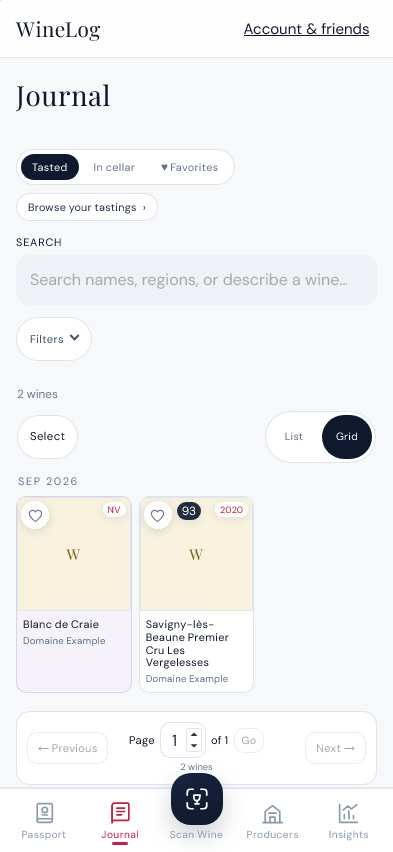
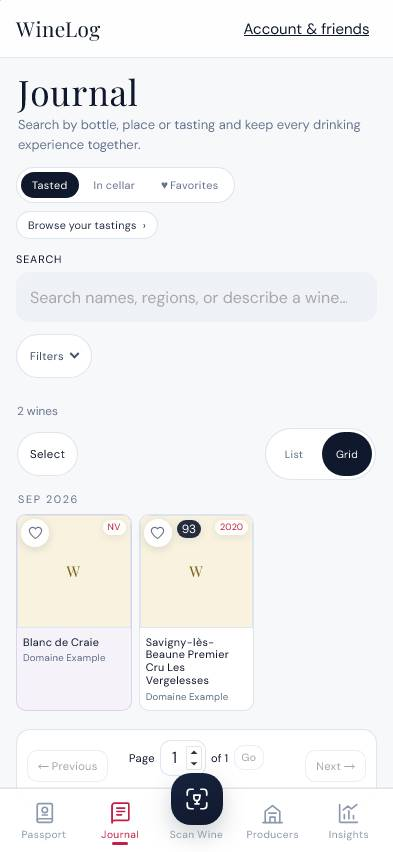
Match Journal header to Passport and retain its description

diff --git a/src/passport.css b/src/passport.css
@@ -1,3 +1,3 @@
-.passport-page{--passport-navy:var(--ink);--passport-gold:#b99659;--passport-cream:var(--warn-wash);max-width:1060px}.passport-intro{padding:4px 0 18px}.passport-intro h1{margin:0;font-size:clamp(2.1rem,4.4vw,3rem);line-height:1;color:var(--passport-navy)}.passport-intro p{margin:8px 0 0;color:var(--ink-6);font-size:.96rem}.passport-summary-card{position:relative;display:grid;grid-template-columns:minmax(0,1fr) 382px;min-height:205px;overflow:hidden;border:1px solid var(--line);border-radius:var(--r-lg);background:linear-gradient(135deg,var(--paper),var(--paper) 72%,var(--warn-wash));box-shadow:0 12px 36px #10182d0a}.passport-summary-copy{position:relative;z-index:2;padding:22px 24px}.passport-summary-copy>.section-label{margin:0 0 18px}.passport-stat-grid{display:grid;grid-template-columns:repeat(3,minmax(0,1fr))}.passport-stat-grid article{display:grid;align-content:start;gap:1px;min-width:0;padding:0 18px}.passport-stat-grid article:first-child{padding-left:0}.passport-stat-grid article+article{border-left:1px solid var(--sunken)}.passport-stat-icon{display:grid;place-items:center;width:36px;height:36px;margin-bottom:7px;border-radius:50%;background:var(--sunken);color:var(--passport-navy);font-size:1rem}.passport-stat-grid strong{font-family:'Playfair Display',serif;font-size:2.15rem;line-height:1}.passport-stat-grid article>span:not(.passport-stat-icon){font-size:.78rem;font-weight:700;white-space:nowrap}.passport-stat-grid small{margin-top:1px;color:var(--ink-7);font-size:.69rem;white-space:nowrap}.passport-map-wrap{position:relative;display:grid;place-items:center;padding:18px 20px;background:linear-gradient(130deg,#fff0,var(--warn-wash))}.passport-map{display:grid;gap:9px;justify-items:center;width:100%;margin:0}.passport-world-map{display:block;width:100%;height:auto}.passport-map-quiet{fill:var(--ink-8)}.passport-map-visited{fill:var(--passport-gold)}.passport-map-pin-glow{fill:var(--passport-navy);opacity:.08}.passport-map-pin-ring{fill:var(--paper);stroke:var(--passport-navy);stroke-width:1;stroke-opacity:.85}.passport-map-pin-core{fill:var(--passport-navy)}.passport-map-caption{color:var(--ink-7);font-size:.64rem;line-height:1.35;text-align:center}.passport-progress-card{display:grid;grid-template-columns:auto minmax(0,1fr) auto;align-items:center;gap:16px;margin-top:12px;padding:15px 18px;border:1px solid var(--line);border-radius:var(--r-lg);background:var(--paper);box-shadow:0 8px 24px #10182d08}.passport-progress-ring{position:relative;display:grid;place-items:center;width:68px;height:68px;border-radius:50%}.passport-progress-ring:after{content:"";position:absolute;inset:7px;border-radius:50%;background:var(--paper)}.passport-progress-ring span{position:relative;z-index:1;font-family:'Playfair Display',serif;font-size:1.17rem}.passport-progress-copy{min-width:0}.passport-progress-copy .section-label{margin:0 0 2px}.passport-progress-copy h2{margin:0;font-size:1.24rem}.passport-progress-copy p{margin:2px 0 7px;color:var(--ink-6);font-size:.78rem}.passport-progress-line{height:6px;overflow:hidden;border-radius:var(--r-pill);background:var(--sunken)}.passport-progress-line span{display:block;height:100%;border-radius:inherit;background:var(--passport-navy)}.passport-soft-link{display:inline-flex;align-items:center;justify-content:center;min-height:38px;padding:0 13px;border-radius:var(--r-sm);background:var(--sunken);color:var(--ink-6);text-decoration:none;font-size:.74rem;font-weight:800;white-space:nowrap}.passport-pair-grid{display:grid;grid-template-columns:repeat(2,minmax(0,1fr));gap:12px;margin-top:12px}.passport-mini-card{min-width:0;padding:16px 17px 13px;border:1px solid var(--line);border-radius:var(--r-lg);background:var(--paper);box-shadow:0 8px 24px #10182d08}.passport-card-heading{display:flex;align-items:flex-start;justify-content:space-between;gap:10px;margin-bottom:7px}.passport-card-heading>div{display:flex;align-items:baseline;justify-content:space-between;gap:10px;min-width:0;flex:1}.passport-card-heading h2{margin:0;font-size:1.17rem}.passport-card-heading span,.passport-card-heading a{color:var(--ink-6);font-size:.67rem;text-decoration:none;white-space:nowrap}.passport-compact-list{display:grid}.passport-compact-list>a{display:grid;grid-template-columns:25px minmax(0,1fr) auto;align-items:center;gap:8px;min-width:0;padding:8px 0;border-top:1px solid var(--sunken);text-decoration:none}.passport-compact-list>a:first-child{border-top:0}.passport-compact-list>a>div{min-width:0}.passport-compact-list strong,.passport-compact-list small{display:block;overflow:hidden;text-overflow:ellipsis;white-space:nowrap}.passport-compact-list strong{font-size:.82rem}.passport-compact-list small{color:var(--ink-7);font-size:.65rem}.passport-compact-list b{font-family:'Playfair Display',serif;font-size:.9rem;font-variant-numeric:tabular-nums}.passport-region-flag{font-size:1rem}.passport-grape-dot{width:11px;height:11px;border-radius:50%;margin-left:4px}.passport-grape-list>a{min-height:39px}.passport-card-link{display:flex;align-items:center;justify-content:space-between;margin-top:5px;padding-top:8px;border-top:1px solid var(--sunken);color:var(--ink-6);text-decoration:none;font-size:.69rem}.passport-card-link span{font-size:1rem;line-height:1}.passport-empty-mini{margin:14px 0;color:var(--ink-7);font-size:.72rem}.passport-stamp-count{margin:9px 0 0;color:var(--ink-6);font-size:.72rem}.passport-stamp-count strong{font-family:'Playfair Display',serif;font-size:1.7rem;line-height:1;color:var(--ink);margin-right:6px}.passport-secondary-grid{align-items:stretch}.passport-recent-list{display:grid}.passport-recent-list>a{display:grid;grid-template-columns:45px minmax(0,1fr) auto;align-items:center;gap:9px;min-width:0;padding:9px 0;border-top:1px solid var(--sunken);text-decoration:none}.passport-recent-list>a:first-child{border-top:0}.passport-recent-list>a.shared{margin:2px -7px;padding-left:7px;padding-right:7px;border-color:var(--shared-line);border-radius:var(--r-sm);background:var(--shared-wash)}.passport-recent-image{display:grid;place-items:center;width:45px;height:48px;overflow:hidden;border-radius:var(--r-sm);background:var(--sunken)}.passport-recent-image img,.passport-recent-image>.wine-image-loading,.passport-recent-image>.wine-image-fallback{width:100%;height:100%;object-fit:cover;border-radius:0}.passport-recent-fallback{display:grid;place-items:center;width:100%;height:100%;background:linear-gradient(145deg,var(--ink-2),var(--ink));color:var(--warn-line);font-family:'Playfair Display',serif}.passport-recent-copy{min-width:0}.passport-recent-copy strong,.passport-recent-copy small{display:block;overflow:hidden;text-overflow:ellipsis;white-space:nowrap}.passport-recent-copy strong{font-family:'Playfair Display',serif;font-size:.81rem;line-height:1.2}.passport-recent-copy small{margin-top:3px;color:var(--ink-7);font-size:.62rem}.passport-recent-date{align-self:end;padding-bottom:2px;color:var(--ink-6);font-size:.61rem;white-space:nowrap}.passport-stamp-list{display:grid;gap:8px}.passport-stamp-list article{display:grid;grid-template-columns:47px minmax(0,1fr);align-items:center;gap:10px;min-width:0}.passport-badge{position:relative;display:grid;place-items:center;width:47px;height:47px;clip-path:polygon(50% 0,90% 20%,100% 60%,72% 100%,28% 100%,0 60%,10% 20%);background:linear-gradient(145deg,var(--ink-2),var(--ink));box-shadow:inset 0 0 0 2px #b9965955;color:#e7d2a8;font-size:1.05rem}.passport-badge-producers{background:linear-gradient(145deg,#4c2c58,#251c36)}.passport-badge-countries{background:linear-gradient(145deg,#1b3e54,var(--ink-2))}.passport-badge-appellations{background:linear-gradient(145deg,#40315d,#221a3b)}.passport-badge-regions{background:linear-gradient(145deg,#2f4a3b,#1a2b23)}.passport-badge-vintages{background:linear-gradient(145deg,#5a3b28,#2d1d15)}.passport-stamp-list article>div{min-width:0}.passport-stamp-list strong,.passport-stamp-list small{display:block;overflow:hidden;text-overflow:ellipsis;white-space:nowrap}.passport-stamp-list strong{font-family:'Playfair Display',serif;font-size:.83rem}.passport-stamp-list small{margin-top:2px;color:var(--ink-7);font-size:.63rem}.passport-more-stamps{margin:1px 0 0;color:var(--ink-6);font-size:.66rem}.passport-story-card{display:grid;grid-template-columns:auto minmax(0,1fr) auto;align-items:center;gap:16px;margin-top:12px;padding:15px 18px;overflow:hidden;border:1px solid var(--line);border-radius:var(--r-lg);background:linear-gradient(130deg,var(--paper) 0 72%,var(--warn-wash));box-shadow:0 8px 24px #10182d08}.passport-mini-cover{display:grid;place-items:center;width:57px;height:70px;border-radius:var(--r-sm) var(--r-md) var(--r-md) var(--r-sm);background:linear-gradient(145deg,var(--ink-2),var(--ink));box-shadow:6px 7px 16px #10182d20,inset 4px 0 #ffffff0c;color:var(--warn-line);transform:rotate(-5deg)}.passport-mini-cover span{font-family:'Playfair Display',serif;font-size:1.65rem}.passport-mini-cover small{margin-top:-14px;font-size:.39rem;letter-spacing:.12em}.passport-story-card h2{margin:0 0 2px;font-size:1.15rem}.passport-story-card p{margin:0;color:var(--ink-6);font-size:.76rem}.passport-primary-link{display:inline-flex;align-items:center;justify-content:center;min-height:40px;padding:0 16px;border-radius:var(--r-sm);background:var(--passport-navy);color:var(--paper);text-decoration:none;font-size:.78rem;font-weight:800;white-space:nowrap}
-@media(max-width:760px){.passport-stamp-count{margin-top:6px;font-size:.68rem}.passport-stamp-count strong{font-size:1.32rem;margin-right:4px}.passport-intro{padding:2px 2px 13px}.passport-intro h1{font-size:2.35rem}.passport-intro p{margin-top:6px;font-size:.86rem}.passport-summary-card{display:block;min-height:0;border-radius:var(--r-lg)}.passport-summary-copy{padding:16px 14px 17px}.passport-summary-copy>.section-label{margin-bottom:12px}.passport-stat-grid{position:relative;z-index:2}.passport-stat-grid article{padding:0 10px}.passport-stat-grid article:first-child{padding-left:0}.passport-stat-icon{width:30px;height:30px;margin-bottom:5px;font-size:.85rem}.passport-stat-grid strong{font-size:1.7rem}.passport-stat-grid article>span:not(.passport-stat-icon){font-size:.66rem}.passport-stat-grid small{font-size:.58rem}.passport-map-wrap{position:static;width:auto;margin-top:13px;padding:12px 2px 0;border-top:1px solid var(--sunken);background:transparent}.passport-map{gap:7px}.passport-map-caption{font-size:.58rem}.passport-progress-card{grid-template-columns:54px minmax(0,1fr) auto;gap:10px;margin-top:9px;padding:11px 12px;border-radius:var(--r-md)}.passport-progress-ring{width:54px;height:54px}.passport-progress-ring:after{inset:6px}.passport-progress-ring span{font-size:.94rem}.passport-progress-copy .section-label{font-size:.6rem}.passport-progress-copy h2{font-size:.92rem;line-height:1.18;white-space:nowrap;overflow:hidden;text-overflow:ellipsis}.passport-progress-copy p{margin:2px 0 6px;font-size:.66rem}.passport-soft-link{min-height:34px;padding:0 9px;font-size:.63rem}.passport-pair-grid{gap:8px;margin-top:9px}.passport-mini-card{padding:11px 11px 9px;border-radius:var(--r-md)}.passport-card-heading{margin-bottom:4px}.passport-card-heading>div{display:block}.passport-card-heading h2{font-size:.94rem}.passport-card-heading span,.passport-card-heading a{font-size:.58rem}.passport-compact-list>a{grid-template-columns:20px minmax(0,1fr) auto;gap:6px;padding:6px 0}.passport-compact-list strong{font-size:.7rem}.passport-compact-list small{font-size:.56rem}.passport-compact-list b{font-size:.78rem}.passport-region-flag{font-size:.82rem}.passport-grape-dot{width:9px;height:9px;margin-left:3px}.passport-grape-list>a{min-height:32px}.passport-card-link{margin-top:3px;padding-top:6px;font-size:.59rem}.passport-recent-list>a{grid-template-columns:37px minmax(0,1fr);gap:7px;padding:7px 0}.passport-recent-image{width:37px;height:40px}.passport-recent-copy strong{font-size:.68rem}.passport-recent-copy small{font-size:.54rem}.passport-recent-date{display:none}.passport-stamp-list{gap:7px}.passport-stamp-list article{grid-template-columns:40px minmax(0,1fr);gap:7px}.passport-badge{width:40px;height:40px;font-size:.9rem}.passport-stamp-list strong{font-size:.69rem}.passport-stamp-list small{font-size:.54rem}.passport-more-stamps{font-size:.56rem}.passport-story-card{grid-template-columns:auto minmax(0,1fr);gap:11px;margin-top:9px;padding:11px 12px;border-radius:var(--r-md)}.passport-mini-cover{width:46px;height:58px}.passport-mini-cover span{font-size:1.35rem}.passport-mini-cover small{font-size:.33rem}.passport-story-card h2{font-size:.92rem}.passport-story-card p{font-size:.65rem}.passport-primary-link{grid-column:1/-1;min-height:36px;font-size:.7rem}}
+.passport-page{--passport-navy:var(--ink);--passport-gold:#b99659;--passport-cream:var(--warn-wash);max-width:1060px}.passport-summary-card{position:relative;display:grid;grid-template-columns:minmax(0,1fr) 382px;min-height:205px;overflow:hidden;border:1px solid var(--line);border-radius:var(--r-lg);background:linear-gradient(135deg,var(--paper),var(--paper) 72%,var(--warn-wash));box-shadow:0 12px 36px #10182d0a}.passport-summary-copy{position:relative;z-index:2;padding:22px 24px}.passport-summary-copy>.section-label{margin:0 0 18px}.passport-stat-grid{display:grid;grid-template-columns:repeat(3,minmax(0,1fr))}.passport-stat-grid article{display:grid;align-content:start;gap:1px;min-width:0;padding:0 18px}.passport-stat-grid article:first-child{padding-left:0}.passport-stat-grid article+article{border-left:1px solid var(--sunken)}.passport-stat-icon{display:grid;place-items:center;width:36px;height:36px;margin-bottom:7px;border-radius:50%;background:var(--sunken);color:var(--passport-navy);font-size:1rem}.passport-stat-grid strong{font-family:'Playfair Display',serif;font-size:2.15rem;line-height:1}.passport-stat-grid article>span:not(.passport-stat-icon){font-size:.78rem;font-weight:700;white-space:nowrap}.passport-stat-grid small{margin-top:1px;color:var(--ink-7);font-size:.69rem;white-space:nowrap}.passport-map-wrap{position:relative;display:grid;place-items:center;padding:18px 20px;background:linear-gradient(130deg,#fff0,var(--warn-wash))}.passport-map{display:grid;gap:9px;justify-items:center;width:100%;margin:0}.passport-world-map{display:block;width:100%;height:auto}.passport-map-quiet{fill:var(--ink-8)}.passport-map-visited{fill:var(--passport-gold)}.passport-map-pin-glow{fill:var(--passport-navy);opacity:.08}.passport-map-pin-ring{fill:var(--paper);stroke:var(--passport-navy);stroke-width:1;stroke-opacity:.85}.passport-map-pin-core{fill:var(--passport-navy)}.passport-map-caption{color:var(--ink-7);font-size:.64rem;line-height:1.35;text-align:center}.passport-progress-card{display:grid;grid-template-columns:auto minmax(0,1fr) auto;align-items:center;gap:16px;margin-top:12px;padding:15px 18px;border:1px solid var(--line);border-radius:var(--r-lg);background:var(--paper);box-shadow:0 8px 24px #10182d08}.passport-progress-ring{position:relative;display:grid;place-items:center;width:68px;height:68px;border-radius:50%}.passport-progress-ring:after{content:"";position:absolute;inset:7px;border-radius:50%;background:var(--paper)}.passport-progress-ring span{position:relative;z-index:1;font-family:'Playfair Display',serif;font-size:1.17rem}.passport-progress-copy{min-width:0}.passport-progress-copy .section-label{margin:0 0 2px}.passport-progress-copy h2{margin:0;font-size:1.24rem}.passport-progress-copy p{margin:2px 0 7px;color:var(--ink-6);font-size:.78rem}.passport-progress-line{height:6px;overflow:hidden;border-radius:var(--r-pill);background:var(--sunken)}.passport-progress-line span{display:block;height:100%;border-radius:inherit;background:var(--passport-navy)}.passport-soft-link{display:inline-flex;align-items:center;justify-content:center;min-height:38px;padding:0 13px;border-radius:var(--r-sm);background:var(--sunken);color:var(--ink-6);text-decoration:none;font-size:.74rem;font-weight:800;white-space:nowrap}.passport-pair-grid{display:grid;grid-template-columns:repeat(2,minmax(0,1fr));gap:12px;margin-top:12px}.passport-mini-card{min-width:0;padding:16px 17px 13px;border:1px solid var(--line);border-radius:var(--r-lg);background:var(--paper);box-shadow:0 8px 24px #10182d08}.passport-card-heading{display:flex;align-items:flex-start;justify-content:space-between;gap:10px;margin-bottom:7px}.passport-card-heading>div{display:flex;align-items:baseline;justify-content:space-between;gap:10px;min-width:0;flex:1}.passport-card-heading h2{margin:0;font-size:1.17rem}.passport-card-heading span,.passport-card-heading a{color:var(--ink-6);font-size:.67rem;text-decoration:none;white-space:nowrap}.passport-compact-list{display:grid}.passport-compact-list>a{display:grid;grid-template-columns:25px minmax(0,1fr) auto;align-items:center;gap:8px;min-width:0;padding:8px 0;border-top:1px solid var(--sunken);text-decoration:none}.passport-compact-list>a:first-child{border-top:0}.passport-compact-list>a>div{min-width:0}.passport-compact-list strong,.passport-compact-list small{display:block;overflow:hidden;text-overflow:ellipsis;white-space:nowrap}.passport-compact-list strong{font-size:.82rem}.passport-compact-list small{color:var(--ink-7);font-size:.65rem}.passport-compact-list b{font-family:'Playfair Display',serif;font-size:.9rem;font-variant-numeric:tabular-nums}.passport-region-flag{font-size:1rem}.passport-grape-dot{width:11px;height:11px;border-radius:50%;margin-left:4px}.passport-grape-list>a{min-height:39px}.passport-card-link{display:flex;align-items:center;justify-content:space-between;margin-top:5px;padding-top:8px;border-top:1px solid var(--sunken);color:var(--ink-6);text-decoration:none;font-size:.69rem}.passport-card-link span{font-size:1rem;line-height:1}.passport-empty-mini{margin:14px 0;color:var(--ink-7);font-size:.72rem}.passport-stamp-count{margin:9px 0 0;color:var(--ink-6);font-size:.72rem}.passport-stamp-count strong{font-family:'Playfair Display',serif;font-size:1.7rem;line-height:1;color:var(--ink);margin-right:6px}.passport-secondary-grid{align-items:stretch}.passport-recent-list{display:grid}.passport-recent-list>a{display:grid;grid-template-columns:45px minmax(0,1fr) auto;align-items:center;gap:9px;min-width:0;padding:9px 0;border-top:1px solid var(--sunken);text-decoration:none}.passport-recent-list>a:first-child{border-top:0}.passport-recent-list>a.shared{margin:2px -7px;padding-left:7px;padding-right:7px;border-color:var(--shared-line);border-radius:var(--r-sm);background:var(--shared-wash)}.passport-recent-image{display:grid;place-items:center;width:45px;height:48px;overflow:hidden;border-radius:var(--r-sm);background:var(--sunken)}.passport-recent-image img,.passport-recent-image>.wine-image-loading,.passport-recent-image>.wine-image-fallback{width:100%;height:100%;object-fit:cover;border-radius:0}.passport-recent-fallback{display:grid;place-items:center;width:100%;height:100%;background:linear-gradient(145deg,var(--ink-2),var(--ink));color:var(--warn-line);font-family:'Playfair Display',serif}.passport-recent-copy{min-width:0}.passport-recent-copy strong,.passport-recent-copy small{display:block;overflow:hidden;text-overflow:ellipsis;white-space:nowrap}.passport-recent-copy strong{font-family:'Playfair Display',serif;font-size:.81rem;line-height:1.2}.passport-recent-copy small{margin-top:3px;color:var(--ink-7);font-size:.62rem}.passport-recent-date{align-self:end;padding-bottom:2px;color:var(--ink-6);font-size:.61rem;white-space:nowrap}.passport-stamp-list{display:grid;gap:8px}.passport-stamp-list article{display:grid;grid-template-columns:47px minmax(0,1fr);align-items:center;gap:10px;min-width:0}.passport-badge{position:relative;display:grid;place-items:center;width:47px;height:47px;clip-path:polygon(50% 0,90% 20%,100% 60%,72% 100%,28% 100%,0 60%,10% 20%);background:linear-gradient(145deg,var(--ink-2),var(--ink));box-shadow:inset 0 0 0 2px #b9965955;color:#e7d2a8;font-size:1.05rem}.passport-badge-producers{background:linear-gradient(145deg,#4c2c58,#251c36)}.passport-badge-countries{background:linear-gradient(145deg,#1b3e54,var(--ink-2))}.passport-badge-appellations{background:linear-gradient(145deg,#40315d,#221a3b)}.passport-badge-regions{background:linear-gradient(145deg,#2f4a3b,#1a2b23)}.passport-badge-vintages{background:linear-gradient(145deg,#5a3b28,#2d1d15)}.passport-stamp-list article>div{min-width:0}.passport-stamp-list strong,.passport-stamp-list small{display:block;overflow:hidden;text-overflow:ellipsis;white-space:nowrap}.passport-stamp-list strong{font-family:'Playfair Display',serif;font-size:.83rem}.passport-stamp-list small{margin-top:2px;color:var(--ink-7);font-size:.63rem}.passport-more-stamps{margin:1px 0 0;color:var(--ink-6);font-size:.66rem}.passport-story-card{display:grid;grid-template-columns:auto minmax(0,1fr) auto;align-items:center;gap:16px;margin-top:12px;padding:15px 18px;overflow:hidden;border:1px solid var(--line);border-radius:var(--r-lg);background:linear-gradient(130deg,var(--paper) 0 72%,var(--warn-wash));box-shadow:0 8px 24px #10182d08}.passport-mini-cover{display:grid;place-items:center;width:57px;height:70px;border-radius:var(--r-sm) var(--r-md) var(--r-md) var(--r-sm);background:linear-gradient(145deg,var(--ink-2),var(--ink));box-shadow:6px 7px 16px #10182d20,inset 4px 0 #ffffff0c;color:var(--warn-line);transform:rotate(-5deg)}.passport-mini-cover span{font-family:'Playfair Display',serif;font-size:1.65rem}.passport-mini-cover small{margin-top:-14px;font-size:.39rem;letter-spacing:.12em}.passport-story-card h2{margin:0 0 2px;font-size:1.15rem}.passport-story-card p{margin:0;color:var(--ink-6);font-size:.76rem}.passport-primary-link{display:inline-flex;align-items:center;justify-content:center;min-height:40px;padding:0 16px;border-radius:var(--r-sm);background:var(--passport-navy);color:var(--paper);text-decoration:none;font-size:.78rem;font-weight:800;white-space:nowrap}
+@media(max-width:760px){.passport-stamp-count{margin-top:6px;font-size:.68rem}.passport-stamp-count strong{font-size:1.32rem;margin-right:4px}.passport-summary-card{display:block;min-height:0;border-radius:var(--r-lg)}.passport-summary-copy{padding:16px 14px 17px}.passport-summary-copy>.section-label{margin-bottom:12px}.passport-stat-grid{position:relative;z-index:2}.passport-stat-grid article{padding:0 10px}.passport-stat-grid article:first-child{padding-left:0}.passport-stat-icon{width:30px;height:30px;margin-bottom:5px;font-size:.85rem}.passport-stat-grid strong{font-size:1.7rem}.passport-stat-grid article>span:not(.passport-stat-icon){font-size:.66rem}.passport-stat-grid small{font-size:.58rem}.passport-map-wrap{position:static;width:auto;margin-top:13px;padding:12px 2px 0;border-top:1px solid var(--sunken);background:transparent}.passport-map{gap:7px}.passport-map-caption{font-size:.58rem}.passport-progress-card{grid-template-columns:54px minmax(0,1fr) auto;gap:10px;margin-top:9px;padding:11px 12px;border-radius:var(--r-md)}.passport-progress-ring{width:54px;height:54px}.passport-progress-ring:after{inset:6px}.passport-progress-ring span{font-size:.94rem}.passport-progress-copy .section-label{font-size:.6rem}.passport-progress-copy h2{font-size:.92rem;line-height:1.18;white-space:nowrap;overflow:hidden;text-overflow:ellipsis}.passport-progress-copy p{margin:2px 0 6px;font-size:.66rem}.passport-soft-link{min-height:34px;padding:0 9px;font-size:.63rem}.passport-pair-grid{gap:8px;margin-top:9px}.passport-mini-card{padding:11px 11px 9px;border-radius:var(--r-md)}.passport-card-heading{margin-bottom:4px}.passport-card-heading>div{display:block}.passport-card-heading h2{font-size:.94rem}.passport-card-heading span,.passport-card-heading a{font-size:.58rem}.passport-compact-list>a{grid-template-columns:20px minmax(0,1fr) auto;gap:6px;padding:6px 0}.passport-compact-list strong{font-size:.7rem}.passport-compact-list small{font-size:.56rem}.passport-compact-list b{font-size:.78rem}.passport-region-flag{font-size:.82rem}.passport-grape-dot{width:9px;height:9px;margin-left:3px}.passport-grape-list>a{min-height:32px}.passport-card-link{margin-top:3px;padding-top:6px;font-size:.59rem}.passport-recent-list>a{grid-template-columns:37px minmax(0,1fr);gap:7px;padding:7px 0}.passport-recent-image{width:37px;height:40px}.passport-recent-copy strong{font-size:.68rem}.passport-recent-copy small{font-size:.54rem}.passport-recent-date{display:none}.passport-stamp-list{gap:7px}.passport-stamp-list article{grid-template-columns:40px minmax(0,1fr);gap:7px}.passport-badge{width:40px;height:40px;font-size:.9rem}.passport-stamp-list strong{font-size:.69rem}.passport-stamp-list small{font-size:.54rem}.passport-more-stamps{font-size:.56rem}.passport-story-card{grid-template-columns:auto minmax(0,1fr);gap:11px;margin-top:9px;padding:11px 12px;border-radius:var(--r-md)}.passport-mini-cover{width:46px;height:58px}.passport-mini-cover span{font-size:1.35rem}.passport-mini-cover small{font-size:.33rem}.passport-story-card h2{font-size:.92rem}.passport-story-card p{font-size:.65rem}.passport-primary-link{grid-column:1/-1;min-height:36px;font-size:.7rem}}
 @media(max-width:360px){.passport-pair-grid{grid-template-columns:1fr}.passport-stat-grid article{padding:0 7px}.passport-stat-grid article>span:not(.passport-stat-icon),.passport-stat-grid small{white-space:normal}.passport-progress-card{grid-template-columns:50px minmax(0,1fr)}.passport-soft-link{grid-column:1/-1}.passport-card-heading>div{display:flex}.passport-secondary-grid{grid-template-columns:1fr}}

diff --git a/src/features/wines/LibraryPage.tsx b/src/features/wines/LibraryPage.tsx
@@ -1,5 +1,5 @@
 import { useModalFocus } from '../../components/useModalFocus';
-import { PageHeader } from '../../components/PageHeader';
+import { PageIntro } from '../../components/PageIntro';
 import { accountStorageKey } from '../../lib/auth/client';
 import { useEffect,useMemo,useRef,useState } from 'react';
 import { pourFamily } from '../../lib/wine/pourFamily';
@@ -302,7 +302,7 @@ export function LibraryPage(){
   if(restoring)return <Navigate to={{pathname:'/journal',search:restoreFilters}} replace/>;
 
   return <section className="journal-page">
-    <PageHeader title="Journal" className="journal-heading"/>
+    <PageIntro title="Journal" description="Search by bottle, place or tasting and keep every drinking experience together."/>
     {/* The tastings list has no way in from anywhere else: it is reachable only
         from a tasting's own page, which itself needs one to be open, and the
         mobile nav is full at five tabs. A tasting is a grouping of journal

diff --git a/src/features/journey/PassportPage.tsx b/src/features/journey/PassportPage.tsx
@@ -1,3 +1,4 @@
+import { PageIntro } from '../../components/PageIntro';
 import { useEffect,useMemo,useState } from 'react';
 import { Link } from 'react-router-dom';
 import { WineImage } from '../wines/WineImage';
@@ -70,10 +71,7 @@ export function PassportPage(){
   ];
 
   return <section className="journey-page passport-page">
-    <header className="passport-intro">
-      <h1>Passport</h1>
-      <p>Your tasting journey at a glance.</p>
-    </header>
+    <PageIntro title="Passport" description="Your tasting journey at a glance."/>
 
     <section className="passport-summary-card" aria-labelledby="passport-summary-heading">
       <div className="passport-summary-copy">

diff --git a/src/remainingLayout.css b/src/remainingLayout.css
@@ -1,6 +1,6 @@
 /* Page families share spacing; identity heroes and Journal cards stay distinct. */
 main>section>.page-header,main>article>.page-header{margin-bottom:var(--s5)}
-.journal-heading{padding:var(--s2) 0 var(--s4)}
+
 .journal-filter-bar{flex-wrap:wrap}.journal-filter-chip{max-width:100%;overflow-wrap:anywhere}
 .journal-viewbar{gap:var(--s3);flex-wrap:wrap}.journal-view-actions,.journal-selection-actions{flex-wrap:wrap}
 .journal-selection-actions{justify-content:flex-start;gap:var(--s2)}

diff --git a/src/pageIntro.css b/src/pageIntro.css
@@ -1,0 +1,8 @@
+.page-intro{padding:4px 0 18px}
+.page-intro h1{margin:0;font-family:'Playfair Display',serif;font-size:clamp(2.1rem,4.4vw,3rem);line-height:1;color:var(--ink)}
+.page-intro p{margin:8px 0 0;color:var(--ink-6);font-size:.96rem}
+@media(max-width:760px){
+  .page-intro{padding:2px 2px 13px}
+  .page-intro h1{font-size:2.35rem}
+  .page-intro p{margin-top:6px;font-size:.86rem}
+}

diff --git a/src/components/PageIntro.tsx b/src/components/PageIntro.tsx
@@ -1,0 +1,6 @@
+import '../pageIntro.css';
+
+/** Shared title and description treatment for the Journal and Passport. */
+export function PageIntro({title,description}:{title:string;description:string}){
+  return <header className="page-intro"><h1>{title}</h1><p>{description}</p></header>;
+}

diff --git a/docs/remaining-layout-redesign.md b/docs/remaining-layout-redesign.md
@@ -10,7 +10,7 @@ Owner controls use `?section=members|usage|access|maintenance`. The legacy `/adm
 
 ## Journal
 
-Grid cards remain photo, name, producer, vintage, score and favorite only. No tasting/event, venue, date or shared-by copy is added. Shared-wine color and accessible ownership labels are retained. List view retains its richer metadata. Journal and cellar share a compact header and the existing exclusive scope navigation. Active filters can be removed without opening the disclosure. Page information stays in the pagination control. No-results and empty-journal states are distinct. Batch editing traps focus, handles Escape and restores focus to the trigger.
+Grid cards remain photo, name, producer, vintage, score and favorite only. No tasting/event, venue, date or shared-by copy is added. Shared-wine color and accessible ownership labels are retained. List view retains its richer metadata. Journal uses the same title, description styling and header spacing as Passport through PageIntro, retaining its original search description. The existing exclusive Journal/cellar scope navigation remains. Active filters can be removed without opening the disclosure. Page information stays in the pagination control. No-results and empty-journal states are distinct. Batch editing traps focus, handles Escape and restores focus to the trigger.
 
 ## Other page families
 
